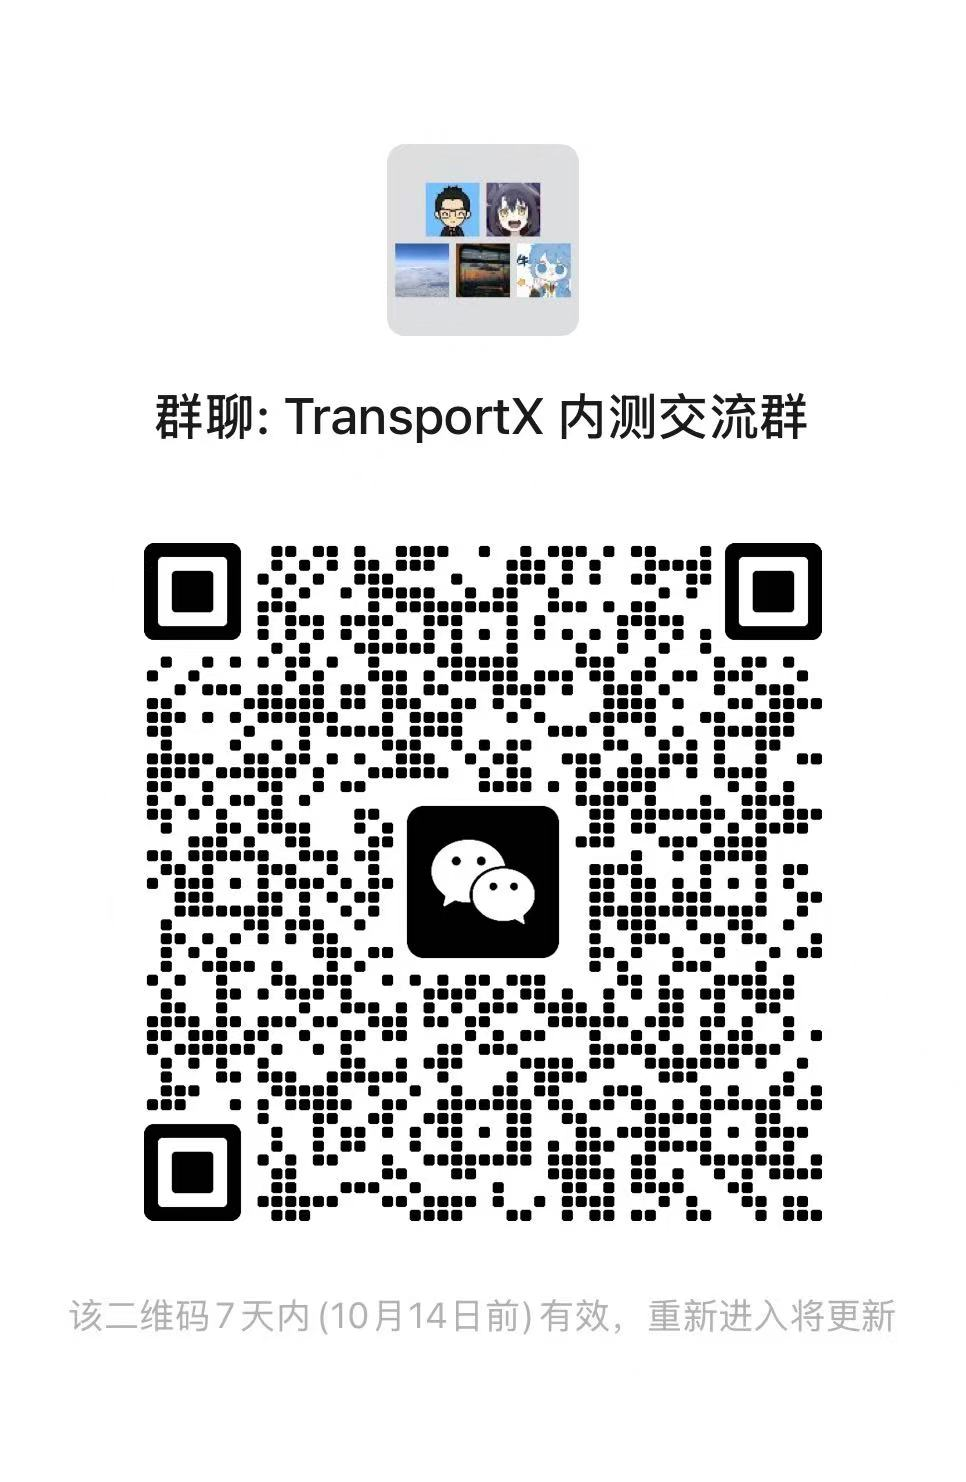
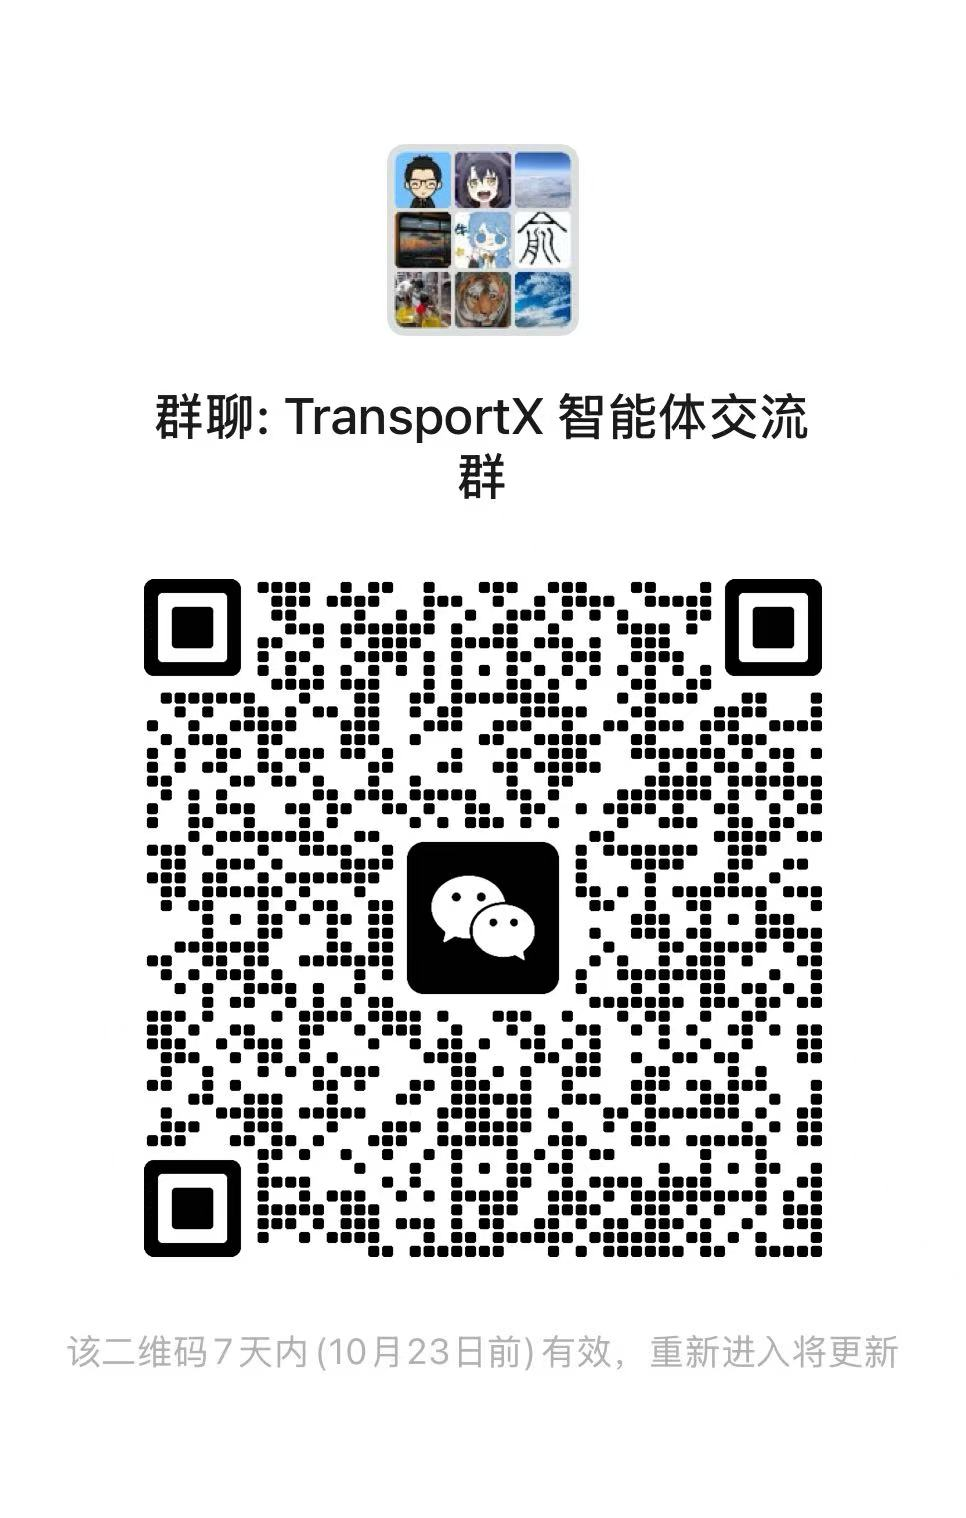
docs(guide): update community QR code through October 23

diff --git a/docs/guide/guide.js b/docs/guide/guide.js
@@ -74,7 +74,7 @@ const pages = [
     <h2 id="result">第五步 核查并导出成果</h2><ol class="steps"><li>打开文件栏或回复中的文件链接，查看生成的图表和报告。</li><li>核对单位、时间范围、计算口径与数据来源。有引用时点击标记查看证据。</li><li>在文档画布中下载原文件，或点击“生成并下载 PDF”。</li></ol>
     ${note('第一次使用的完成标志', '模型能回复，材料已读入，分析口径已核对，成果文件能打开。接下来可以继续 <a href="#map">地图分析</a> 或了解 <a href="#reports">报告与引用</a>。', true)}
     <h2 id="community">内测交流</h2><p>扫描二维码加入 TransportX 内测交流群，交流使用问题、反馈建议。</p>
-    <figure class="figure community"><button type="button" class="image-open" aria-label="放大图片 TransportX 内测交流群二维码"><img src="assets/community-wechat.jpg" width="966" height="1482" alt="TransportX 内测交流群微信二维码，有效期至 2026 年 10 月 14 日" loading="lazy" decoding="async"></button><figcaption>二维码有效期至 2026 年 10 月 14 日 · 点击图片放大</figcaption></figure>
+    <figure class="figure community"><button type="button" class="image-open" aria-label="放大图片 TransportX 内测交流群二维码"><img src="assets/community-wechat.jpg?v=20261016" width="966" height="1518" alt="TransportX 内测交流群微信二维码，有效期至 2026 年 10 月 23 日" loading="lazy" decoding="async"></button><figcaption>二维码有效期至 2026 年 10 月 23 日 · 点击图片放大</figcaption></figure>
     <p>二维码过期后，请通过项目 Issues 联系维护者获取新入口。</p>`
   },
   {

diff --git a/docs/guide/index.html b/docs/guide/index.html
@@ -7,7 +7,7 @@
   <title>什么是 TransportX · TransportX 文档</title>
   <link rel="icon" href="assets/logo.svg" type="image/svg+xml">
   <link rel="stylesheet" href="styles.css?v=4">
-  <script src="guide.js?v=4" defer></script>
+  <script src="guide.js?v=5" defer></script>
 </head>
 <body>
   <a class="skip-link" href="#article">跳到正文</a>

diff --git a/docs/CHANGELOG.md b/docs/CHANGELOG.md
@@ -8,6 +8,7 @@
 
 ### Changed
 
+- 官网快速上手更新交流群二维码，有效期延长至 2026 年 10 月 23 日，并更新图片与脚本缓存版本。
 - 官网中英文产品首页移除新版说明与版本专属入口；使用文档统一设立“版本更新”页，3.23.0 作为页内版本条目，原 3.23 更新说明链接跳转到对应条目。
 
 ## 3.23.0 - 2026-10-15
